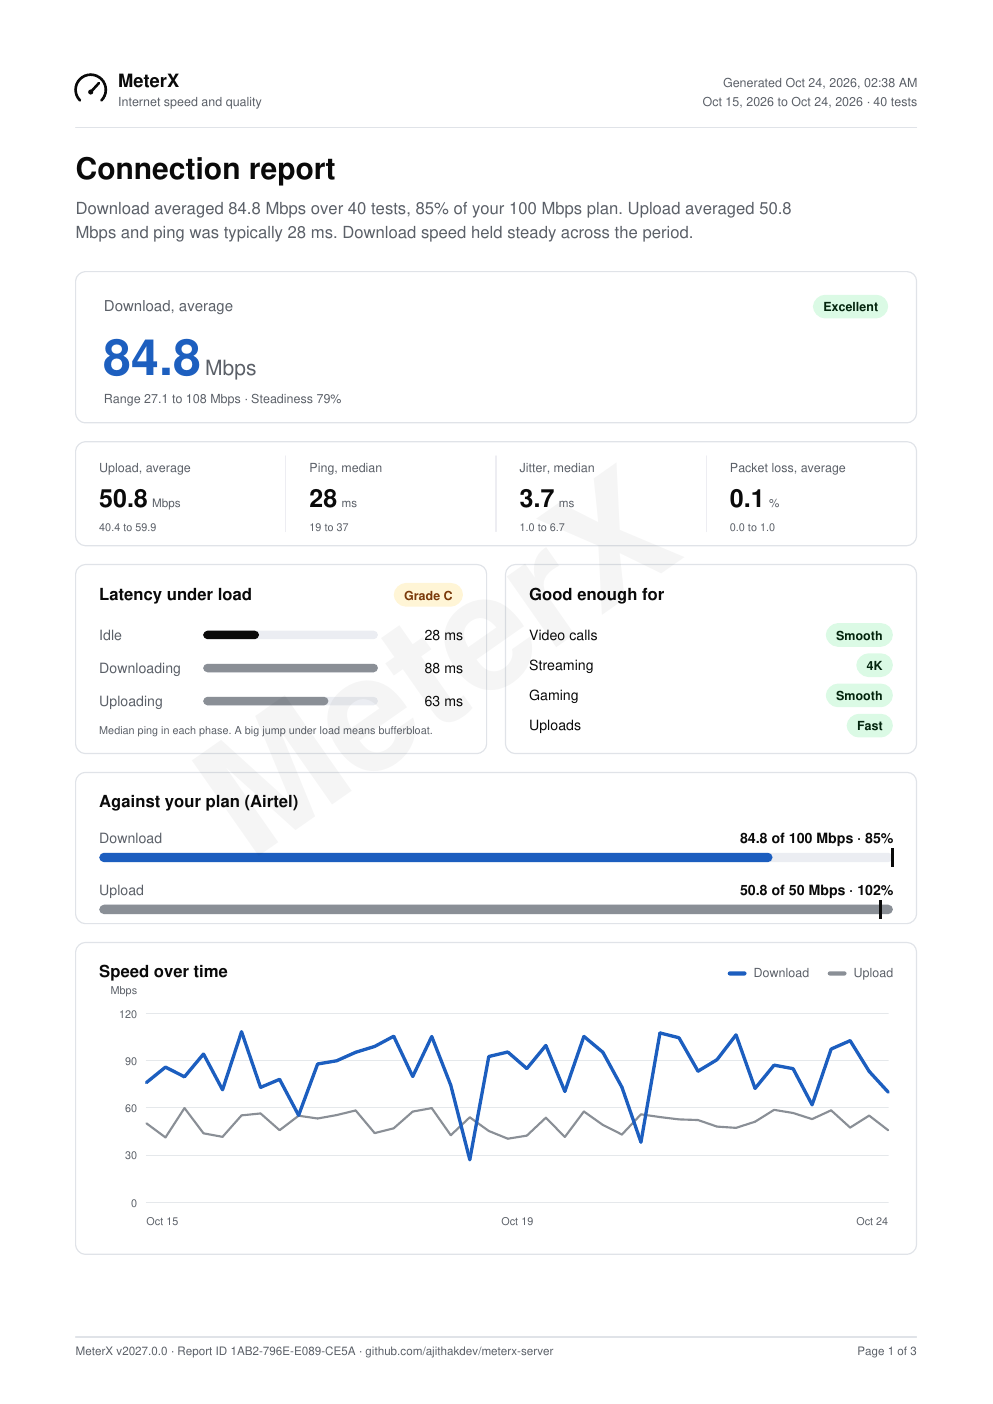
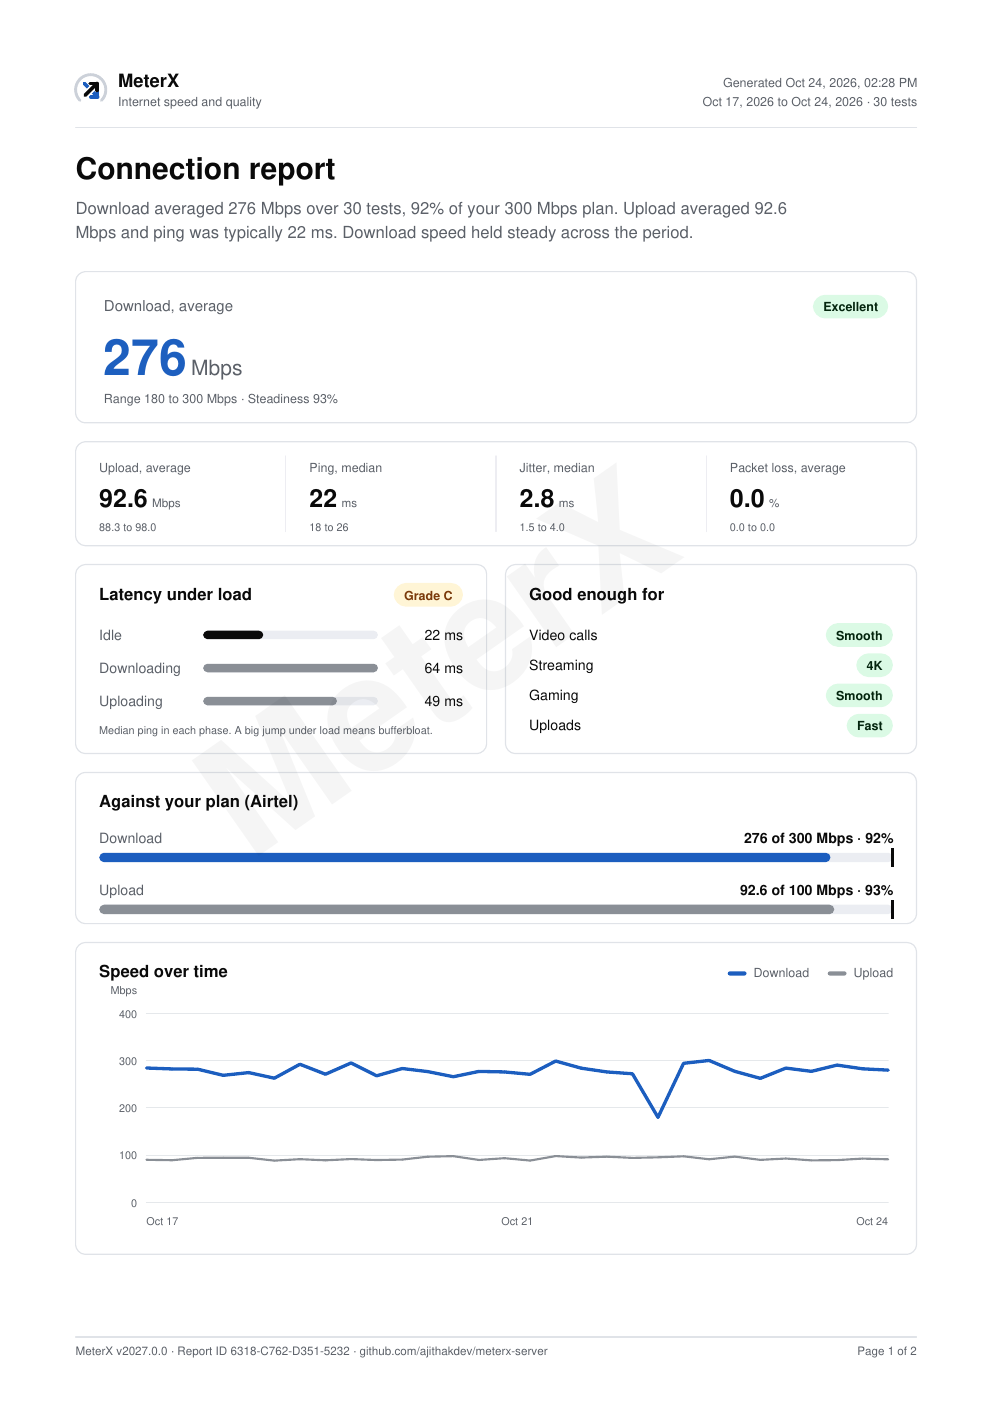
feat(site): redesign the home page hero, features and test phases
The hero now pairs the headline and two actions with the real popup,
and the quick test reports on a reserved line so nothing moves. Feature
rows use the full width, the test phases are one proportional bar with
four steps, and the report screenshot shows the new mark. A quick test
that finishes inside the warm-up window no longer reports 0 Mbps.

diff --git a/packages/site/static/styles/site.css b/packages/site/static/styles/site.css
@@ -30,6 +30,7 @@ body.site { font: 400 var(--t-body)/1.55 var(--font); background: var(--ground);
 .site h1, .site h2 { font-weight: 600; letter-spacing: -0.035em; line-height: 0.98; margin: 0; }
 .site h2 { font-size: var(--t-title); max-width: 18ch; }
 .small { font-size: var(--t-small); color: var(--muted); }
+.nowrap { white-space: nowrap; }
 
 /* Buttons: one shape, fully round, one fill. */
 .cta {
@@ -51,35 +52,35 @@ body.site { font: 400 var(--t-body)/1.55 var(--font); background: var(--ground);
 .nav a:not(.brand):not(.cta):hover { text-decoration: underline; text-underline-offset: 4px; }
 @media (max-width: 720px) { .nav { gap: 16px; height: 64px; } .nav .hide-sm { display: none; } }
 
-/* Hero: the sentence split by a live frame. */
-.hero { min-height: calc(100svh - 76px); display: grid; grid-template-columns: 1fr minmax(360px, 440px) 1fr; grid-template-rows: 1fr auto 1fr; column-gap: 32px; }
-.hero h1 { grid-column: 1 / -1; grid-row: 2; align-self: center; display: flex; justify-content: space-between; align-items: center; gap: 504px; font-size: clamp(40px, 3.6vw, 56px); }
-.hero .half { max-width: 7.5em; }
-.hero .half.b { text-align: right; }
-.hero .frame { grid-column: 2; grid-row: 2; position: relative; z-index: 1; }
-.hero .foot { grid-column: 1 / -1; grid-row: 3; align-self: end; display: flex; flex-wrap: wrap; align-items: flex-end; justify-content: space-between; gap: 24px; padding-bottom: 32px; }
-.hero .foot p { font-size: var(--t-body); line-height: 1.5; max-width: 46ch; margin: 0; }
-.hero .slot { color: var(--data); white-space: nowrap; }
-@media (max-width: 1000px) {
-  .hero { grid-template-columns: 1fr; grid-template-rows: auto; row-gap: 28px; min-height: 0; padding-top: 24px; }
-  .hero h1 { grid-column: 1; grid-row: 1; display: block; font-size: clamp(36px, 9vw, 60px); }
-  .hero .half { display: block; max-width: none; }
-  .hero .frame { grid-column: 1; grid-row: 2; }
-  .hero .foot { grid-column: 1; grid-row: 3; }
-  .hero .foot { padding-bottom: 0; }
-  .hero .foot .cta { width: 100%; }
+/* Hero: what it is and the two actions on the left, the real popup on the right. */
+.hero { display: grid; grid-template-columns: minmax(0, 1fr) auto; gap: 64px; align-items: center; padding-top: 56px !important; padding-bottom: 24px !important; }
+.hero h1 { font-size: clamp(32px, 5vw, 64px); max-width: none; }
+.hero .lede { font-size: 20px; line-height: 1.5; margin: 28px 0 0; max-width: 44ch; }
+.hero .actions { display: flex; flex-wrap: wrap; gap: 12px; margin-top: 36px; }
+.ghost {
+  height: 52px; padding: 0 24px; border-radius: var(--round); border: 0; background: var(--raised); color: var(--text);
+  font: inherit; font-size: 17px; font-weight: 500; cursor: pointer; transition: transform 120ms var(--ease), background-color 160ms var(--ease);
+}
+.ghost:hover { background: var(--control); }
+.ghost:active { transform: scale(.97); }
+.ghost:disabled { cursor: progress; opacity: .7; }
+/* One reserved line, so a result never moves anything. */
+.hero .qt { margin: 16px 0 0; min-height: 3.2em; line-height: 1.6; font-size: var(--t-small); color: var(--muted); }
+.hero .qt b { color: var(--data); font-weight: 600; font-size: 18px; }
+.hero-shot img { display: block; width: 360px; height: auto; border-radius: 16px; }
+@media (max-width: 900px) {
+  .hero { grid-template-columns: 1fr; gap: 40px; padding-top: 24px !important; }
+  .hero-shot img { width: min(360px, 100%); margin: 0 auto; }
+  .hero .actions > * { flex: 1 1 100%; }
 }
 
-/* Interface fragments: real app components at real size. */
+/* Result card (share viewer): real app components at real size. */
 [data-ui] { font-size: 14px; line-height: 20px; }
-.frame.card { padding: 24px 28px; display: grid; grid-template-rows: auto 1fr auto auto; gap: 12px; aspect-ratio: 16 / 9; }
-.frame .big { align-self: center; display: flex; align-items: baseline; justify-content: space-between; gap: 16px; }
+.frame.card { padding: 24px 28px; display: grid; gap: 14px; }
 .frame .row { display: flex; align-items: center; justify-content: space-between; gap: 12px; }
 .frame .label { color: var(--muted); font-size: 14px; }
 .frame .fig { font-size: 72px; line-height: 1; font-weight: 500; letter-spacing: -0.02em; color: var(--data); font-variant-numeric: tabular-nums; }
-.frame .note { color: var(--muted); font-size: 14px; line-height: 20px; min-height: 40px; margin: 0; }
 .frame .fig.dash { color: transparent; }
-@media (max-width: 1000px) { .frame.card { aspect-ratio: auto; } }
 
 /* What your speed can do: the heading is an input. */
 .explorer h2 { display: flex; flex-wrap: wrap; align-items: baseline; gap: 0 .25em; max-width: none; font-size: clamp(44px, 6vw, 88px); }
@@ -102,15 +103,14 @@ body.site { font: 400 var(--t-body)/1.55 var(--font); background: var(--ground);
 @media (max-width: 900px) { .explorer .answer { grid-template-columns: 1fr; gap: 24px; } }
 
 /* Features: rows hanging from one axis, each with its interface fragment at the right. */
-.features .axis { display: grid; grid-template-columns: 4fr 8fr; column-gap: 32px; }
-.features h2 { grid-column: 2; margin-bottom: 96px; }
-.feature { grid-column: 2; display: grid; grid-template-columns: minmax(0, 1fr) auto; gap: 48px; align-items: start; }
+.features .axis { display: grid; grid-template-columns: 1fr; }
+.features h2 { margin-bottom: 80px; }
+.feature { display: grid; grid-template-columns: minmax(0, 5fr) minmax(0, 6fr); gap: 64px; align-items: center; }
 .feature + .feature { margin-top: 112px; }
 .feature h3 { font-size: var(--t-statement); line-height: 1.15; letter-spacing: -0.02em; font-weight: 600; margin: 0 0 12px; }
-.feature p { margin: 0; max-width: 40ch; }
-.feature .shot { width: 340px; }
-.feature .shot.wide { width: 400px; }
-.feature .shot.narrow { width: 280px; }
+.feature p { margin: 0; max-width: 44ch; }
+.feature .shot { width: 100%; max-width: 520px; justify-self: end; }
+.feature .shot.narrow { max-width: 440px; }
 .feature .shot img { display: block; width: 100%; height: auto; border-radius: var(--radius-card); }
 @media (max-width: 1000px) {
   .features .axis { grid-template-columns: 1fr; }
@@ -120,26 +120,16 @@ body.site { font: 400 var(--t-body)/1.55 var(--font); background: var(--ground);
   .feature:nth-child(odd) .shot { justify-self: end; }
 }
 
-/* How it works: the progress bar, enlarged and stood upright in a pinned column; the step on screen lights its segment. */
-.how .wrap { display: grid; grid-template-columns: 5fr 7fr; column-gap: 64px; }
-.how .sticky { position: sticky; top: 40px; align-self: start; }
-.how h2 { margin-bottom: 40px; font-size: clamp(34px, 3.6vw, 52px); }
-.phase-bar { display: flex; flex-direction: column; gap: 6px; height: min(56vh, 520px); }
-.phase-bar > div { border-radius: 6px; padding: 12px 16px; display: flex; justify-content: space-between; align-items: flex-start; gap: 12px; background: var(--raised); color: var(--text); transition: background-color 240ms var(--ease), color 240ms var(--ease); min-height: 44px; }
-.phase-bar > div.on { background: var(--data); color: var(--on-data); }
-.phase-bar .dur { font-size: 20px; font-weight: 500; letter-spacing: -0.01em; }
-.phase-bar .what { font-size: var(--t-small); }
-.how .steps { padding: 20vh 0 10vh; }
-.how .step { min-height: 46vh; display: flex; align-items: center; opacity: .35; transition: opacity 240ms var(--ease); }
-.how .step.on { opacity: 1; }
-.how .step p { font-size: var(--t-statement); line-height: 1.35; letter-spacing: -0.01em; max-width: 30ch; margin: 0; }
-@media (max-width: 900px) {
-  .how .wrap { grid-template-columns: 1fr; }
-  .how .sticky { position: static; }
-  .phase-bar { height: 70vh; }
-  .how .steps { padding: 32px 0 0; }
-  .how .step { min-height: 0; opacity: 1; padding: 16px 0; }
-}
+/* How it works: the progress bar enlarged, segments sized by real phase length, four steps under it. */
+.how h2 { margin-bottom: 48px; max-width: none; }
+.phase-bar { display: flex; gap: 6px; height: 72px; }
+.phase-bar > div { border-radius: 6px; background: var(--raised); display: flex; align-items: center; padding: 0 16px; min-width: 10px; overflow: hidden; white-space: nowrap; font-size: var(--t-small); }
+.phase-bar > .dl { background: var(--data); color: var(--on-data); }
+.how .steps { display: grid; grid-template-columns: repeat(4, 1fr); gap: 32px; margin-top: 40px; }
+.how h3 { font-size: 20px; font-weight: 600; letter-spacing: -0.01em; margin: 0 0 8px; }
+.how .steps p { margin: 0; font-size: 17px; }
+@media (max-width: 900px) { .how .steps { grid-template-columns: 1fr 1fr; } }
+@media (max-width: 560px) { .how .steps { grid-template-columns: 1fr; } .phase-bar > div { padding: 0 8px; } .phase-bar span { display: none; } }
 
 /* Where it runs: the browser names as one sentence, one lit at a time. */
 .where .wrap { display: grid; grid-template-columns: 8fr 4fr; column-gap: 64px; align-items: end; }

diff --git a/packages/site/static/index.html b/packages/site/static/index.html
@@ -32,20 +32,19 @@
 
 <main id="main">
   <section class="hero">
-    <h1><span class="half a">Your connection,</span> <span class="half b">honestly measured.</span></h1>
-    <div class="frame card" data-ui aria-label="Quick speed test">
-      <div class="row"><span class="label">Download</span><span class="pill">Quick test</span></div>
-      <div class="big">
-        <span><span class="fig dash" id="qtFig">-</span><span class="unit">Mbps</span></span>
-        <span class="label">Ping <b id="qtPing" class="dash">-</b><span class="unit">ms</span></span>
+    <div class="copy">
+      <h1>Your internet,<br> honestly measured.</h1>
+      <p class="lede">MeterX is a free, open-source browser extension that tests download, upload, ping, jitter and bufferbloat from your toolbar. No account, nothing tracked.</p>
+      <div class="actions">
+        <a class="cta" href="#install" data-install>Get MeterX, free</a>
+        <button class="ghost" id="qtRun" type="button">Run a quick test here</button>
       </div>
-      <button id="qtRun" class="btn btn-primary" type="button">Run a quick test</button>
-      <p class="note" id="qtNote">About 5 seconds from this page, up to 25 MB of data.</p>
+      <p class="qt" id="qtNote" aria-live="polite">The quick test takes about 5 seconds and uses up to 25 MB.</p>
     </div>
-    <div class="foot">
-      <p>MeterX is a free, open-source browser extension that measures download, upload, ping, jitter and bufferbloat from your toolbar. No account, nothing tracked. <span class="slot" id="heroSpeed"></span></p>
-      <a class="cta" href="#install" data-install>Get MeterX, free</a>
-    </div>
+    <picture class="hero-shot">
+      <source srcset="/img/shot-popup-dark.png" media="(prefers-color-scheme: dark)">
+      <img src="/img/shot-popup-light.png" alt="The MeterX popup showing a 280 Mbps download, upload, ping, jitter, latency under load and what the connection is good enough for" width="720" height="1186">
+    </picture>
   </section>
 
   <section class="explorer" data-enter>
@@ -89,23 +88,19 @@
     </div>
   </section>
 
-  <section class="how" id="how">
-    <div class="wrap">
-      <div class="sticky">
-        <h2>Twenty seconds, start to finish</h2>
-        <div class="phase-bar" data-ui aria-label="The four phases of a test, sized by how long each takes">
-          <div data-seg="connect" style="flex:0.9 1 0"><span class="dur">Under a second</span><span class="what">Connect</span></div>
-          <div data-seg="latency" style="flex:2 1 0"><span class="dur">2 seconds</span><span class="what">Ping and jitter</span></div>
-          <div data-seg="download" style="flex:8.6 1 0"><span class="dur">About 9 seconds</span><span class="what">Download</span></div>
-          <div data-seg="upload" style="flex:8.6 1 0"><span class="dur">About 9 seconds</span><span class="what">Upload</span></div>
-        </div>
-      </div>
-      <div class="steps">
-        <div class="step" data-step="connect"><p>First, MeterX opens a connection to the nearest Cloudflare location, or to your own server.</p></div>
-        <div class="step" data-step="latency"><p>Then a run of small pings measures the delay and how much it wobbles from one ping to the next.</p></div>
-        <div class="step" data-step="download"><p>Four parallel streams fill your line for a fixed time. The slow start and the tail are trimmed, so the figure is the steady speed.</p></div>
-        <div class="step" data-step="upload"><p>Three streams do the same upward, while pings keep running to catch the delay that builds under load.</p></div>
-      </div>
+  <section class="how" id="how" data-enter>
+    <h2>Twenty seconds, start to finish</h2>
+    <div class="phase-bar" data-ui aria-label="The phases of a test, sized by how long each takes">
+      <div style="flex:0.9 1 0" title="Connect, under a second"></div>
+      <div style="flex:2 1 0"><span>2 s</span></div>
+      <div class="dl" style="flex:8.6 1 0"><span>Download, about 9 s</span></div>
+      <div style="flex:8.6 1 0"><span>Upload, about 9 s</span></div>
+    </div>
+    <div class="steps">
+      <div><h3>Connect</h3><p>MeterX opens a connection to the nearest Cloudflare location, or to your own server. Under a second.</p></div>
+      <div><h3>Ping and jitter</h3><p>A run of small pings measures the delay and how much it wobbles from one ping to the next.</p></div>
+      <div><h3>Download</h3><p>Four parallel streams fill your line for a fixed time. The slow start and the tail are trimmed, so the figure is the steady speed.</p></div>
+      <div><h3>Upload</h3><p>Three streams do the same upward, while pings keep running to catch the delay that builds under load.</p></div>
     </div>
   </section>
 
@@ -147,7 +142,7 @@
     <p>MeterX by Ajith Kumar K, an open-source internet speed test for the browser.</p>
     <a class="textlink" href="#main">Back to top</a>
   </div>
-  <a class="big" href="https://github.com/ajithakdev/meterx-server">github.com/<wbr>ajithakdev/<wbr>meterx-server</a>
+  <a class="big" href="https://github.com/ajithakdev/meterx-server">github.com/<wbr>ajithakdev/<wbr><span class="nowrap">meterx-server</span></a>
   <div class="meta">
     <nav><a href="/about/">About</a><a href="/privacy/">Privacy</a><a href="https://github.com/ajithakdev/meterx-server/blob/main/CHANGELOG.md">Changelog</a><a href="https://ajithakdev.com">ajithakdev.com</a></nav>
     <span>AGPL-3.0</span>

diff --git a/packages/site/src/home.ts b/packages/site/src/home.ts
@@ -49,26 +49,24 @@ async function quickTest(onSpeed: (mbps: number) => void): Promise<{ mbps: numbe
     } finally {
         clearTimeout(stop);
     }
+    // A fast line can finish inside the ramp window; then the whole transfer is the best estimate.
+    if (!mbps && bytes) mbps = (bytes * 8) / ((performance.now() - t0) * 1000);
     return { mbps, ping };
 }
 
 function wireQuickTest(): void {
-    const btn = $<HTMLButtonElement>('qtRun'), fig = $('qtFig'), ping = $('qtPing'), note = $('qtNote'), slot = $('heroSpeed');
-    if (!btn || !fig || !ping || !note) return;
-    const show = (el: HTMLElement, v: string) => { el.textContent = v; el.classList.remove('dash'); };
+    const btn = $<HTMLButtonElement>('qtRun'), note = $('qtNote');
+    if (!btn || !note) return;
     btn.addEventListener('click', async () => {
         btn.disabled = true;
         btn.textContent = 'Testing…';
-        note.textContent = 'Measuring ping, then download.';
+        note.textContent = 'Measuring ping, then download…';
         try {
-            const r = await quickTest(m => show(fig, fmtSpeed(m)));
-            show(fig, fmtSpeed(r.mbps));
-            show(ping, r.ping.toFixed(0));
-            note.textContent = 'A quick check from this page. The extension runs a full test with upload, jitter and load.';
-            if (slot) slot.textContent = `${fmtSpeed(r.mbps)} Mbps`;
+            const r = await quickTest(m => { note.innerHTML = `Download <b>${fmtSpeed(m)} Mbps</b> so far…`; });
+            note.innerHTML = `Download <b>${fmtSpeed(r.mbps)} Mbps</b>, ping ${r.ping.toFixed(0)} ms from this page.`;
             setExplorer(Math.round(r.mbps));
         } catch {
-            note.textContent = 'The test server could not be reached from this page. Install MeterX to test from your toolbar.';
+            note.textContent = 'The test server could not be reached from here. Install MeterX to test from your toolbar.';
         } finally {
             btn.disabled = false;
             btn.textContent = 'Run it again';

diff --git a/packages/site/static/404.html b/packages/site/static/404.html
@@ -36,7 +36,7 @@
     <p>MeterX by Ajith Kumar K, an open-source internet speed test for the browser.</p>
     <a class="textlink" href="#main">Back to top</a>
   </div>
-  <a class="big" href="https://github.com/ajithakdev/meterx-server">github.com/<wbr>ajithakdev/<wbr>meterx-server</a>
+  <a class="big" href="https://github.com/ajithakdev/meterx-server">github.com/<wbr>ajithakdev/<wbr><span class="nowrap">meterx-server</span></a>
   <div class="meta">
     <nav><a href="/about/">About</a><a href="/privacy/">Privacy</a><a href="https://github.com/ajithakdev/meterx-server/blob/main/CHANGELOG.md">Changelog</a><a href="https://ajithakdev.com">ajithakdev.com</a></nav>
     <span>AGPL-3.0</span>

diff --git a/packages/site/static/about/index.html b/packages/site/static/about/index.html
@@ -49,7 +49,7 @@
     <p>MeterX by Ajith Kumar K, an open-source internet speed test for the browser.</p>
     <a class="textlink" href="#main">Back to top</a>
   </div>
-  <a class="big" href="https://github.com/ajithakdev/meterx-server">github.com/<wbr>ajithakdev/<wbr>meterx-server</a>
+  <a class="big" href="https://github.com/ajithakdev/meterx-server">github.com/<wbr>ajithakdev/<wbr><span class="nowrap">meterx-server</span></a>
   <div class="meta">
     <nav><a href="/about/">About</a><a href="/privacy/">Privacy</a><a href="https://github.com/ajithakdev/meterx-server/blob/main/CHANGELOG.md">Changelog</a><a href="https://ajithakdev.com">ajithakdev.com</a></nav>
     <span>AGPL-3.0</span>

diff --git a/packages/site/static/get/index.html b/packages/site/static/get/index.html
@@ -43,7 +43,7 @@
     <p>MeterX by Ajith Kumar K, an open-source internet speed test for the browser.</p>
     <a class="textlink" href="#main">Back to top</a>
   </div>
-  <a class="big" href="https://github.com/ajithakdev/meterx-server">github.com/<wbr>ajithakdev/<wbr>meterx-server</a>
+  <a class="big" href="https://github.com/ajithakdev/meterx-server">github.com/<wbr>ajithakdev/<wbr><span class="nowrap">meterx-server</span></a>
   <div class="meta">
     <nav><a href="/about/">About</a><a href="/privacy/">Privacy</a><a href="https://github.com/ajithakdev/meterx-server/blob/main/CHANGELOG.md">Changelog</a><a href="https://ajithakdev.com">ajithakdev.com</a></nav>
     <span>AGPL-3.0</span>

diff --git a/packages/site/static/privacy/index.html b/packages/site/static/privacy/index.html
@@ -66,7 +66,7 @@
     <p>MeterX by Ajith Kumar K, an open-source internet speed test for the browser.</p>
     <a class="textlink" href="#main">Back to top</a>
   </div>
-  <a class="big" href="https://github.com/ajithakdev/meterx-server">github.com/<wbr>ajithakdev/<wbr>meterx-server</a>
+  <a class="big" href="https://github.com/ajithakdev/meterx-server">github.com/<wbr>ajithakdev/<wbr><span class="nowrap">meterx-server</span></a>
   <div class="meta">
     <nav><a href="/about/">About</a><a href="/privacy/">Privacy</a><a href="https://github.com/ajithakdev/meterx-server/blob/main/CHANGELOG.md">Changelog</a><a href="https://ajithakdev.com">ajithakdev.com</a></nav>
     <span>AGPL-3.0</span>

diff --git a/packages/site/static/r/index.html b/packages/site/static/r/index.html
@@ -57,7 +57,7 @@
     <p>MeterX by Ajith Kumar K, an open-source internet speed test for the browser.</p>
     <a class="textlink" href="#main">Back to top</a>
   </div>
-  <a class="big" href="https://github.com/ajithakdev/meterx-server">github.com/<wbr>ajithakdev/<wbr>meterx-server</a>
+  <a class="big" href="https://github.com/ajithakdev/meterx-server">github.com/<wbr>ajithakdev/<wbr><span class="nowrap">meterx-server</span></a>
   <div class="meta">
     <nav><a href="/about/">About</a><a href="/privacy/">Privacy</a><a href="https://github.com/ajithakdev/meterx-server/blob/main/CHANGELOG.md">Changelog</a><a href="https://ajithakdev.com">ajithakdev.com</a></nav>
     <span>AGPL-3.0</span>

diff --git a/docs/STATE.md b/docs/STATE.md
@@ -16,7 +16,7 @@ Done on the branch:
 - Site `packages/site` (plan in `docs/SITE-PLAN.md`): home with live quick test, "What can X Mbps do", features with real screenshots, pinned test phases, install, FAQ; plus `/about`, `/privacy` (rewritten for #92), `/r/` share viewer (#74), `/get`, 404. Taste-skill inspector: 0 FAIL at 1440, 768, 390 (warnings: font-size count, no video).
 - Worker CORS allows the site origin; quality rules moved to `@meterx/shared`.
 
-Owner feedback 2026-10-24: the home page UI is weak. Content is now in a centred 1120px column like Toolglass; the next session should redo the home page design (start with the hero: big empty space above and below the test card, the card itself feels sparse), checking screenshots each round.
+Home page redesigned 2026-10-24 after owner feedback: centred 1120px column, hero with headline, two actions and the real popup screenshot, quick test as a secondary button with its result on a reserved line (no layout shift, checked at 1440 and 390), full-width feature rows, one proportional phase bar with four steps. Waiting for the owner's review.
 
 Next, in order:
 1. Owner checks the site locally: `cd packages/site && node build.mjs && npx wrangler pages dev dist` (or any static server on `dist`).
